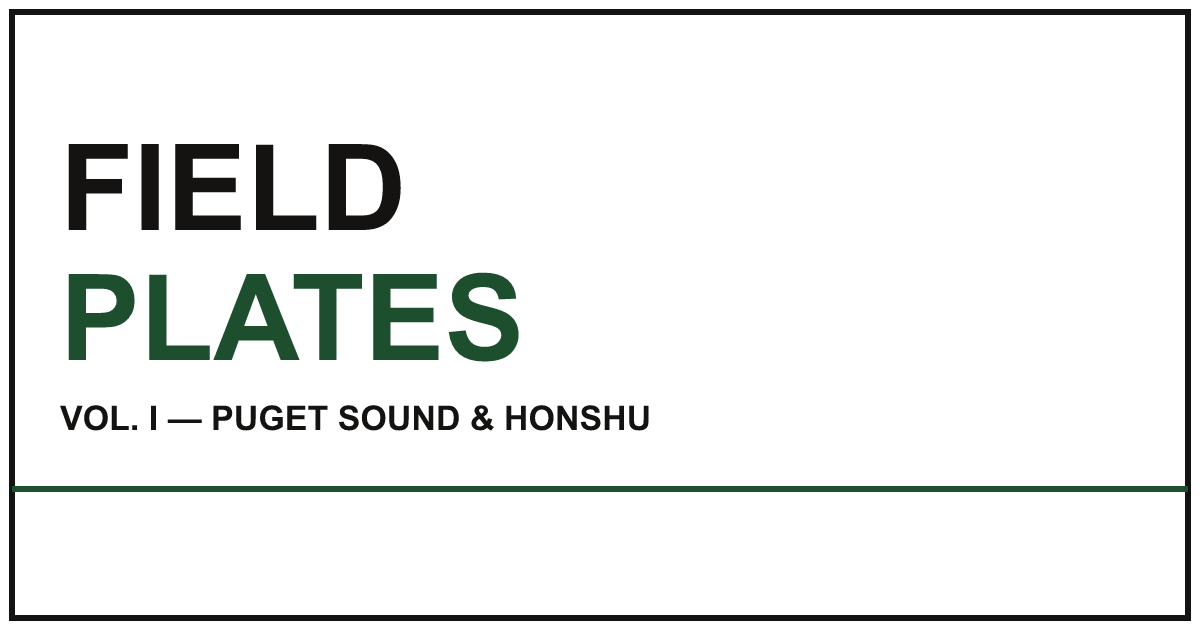
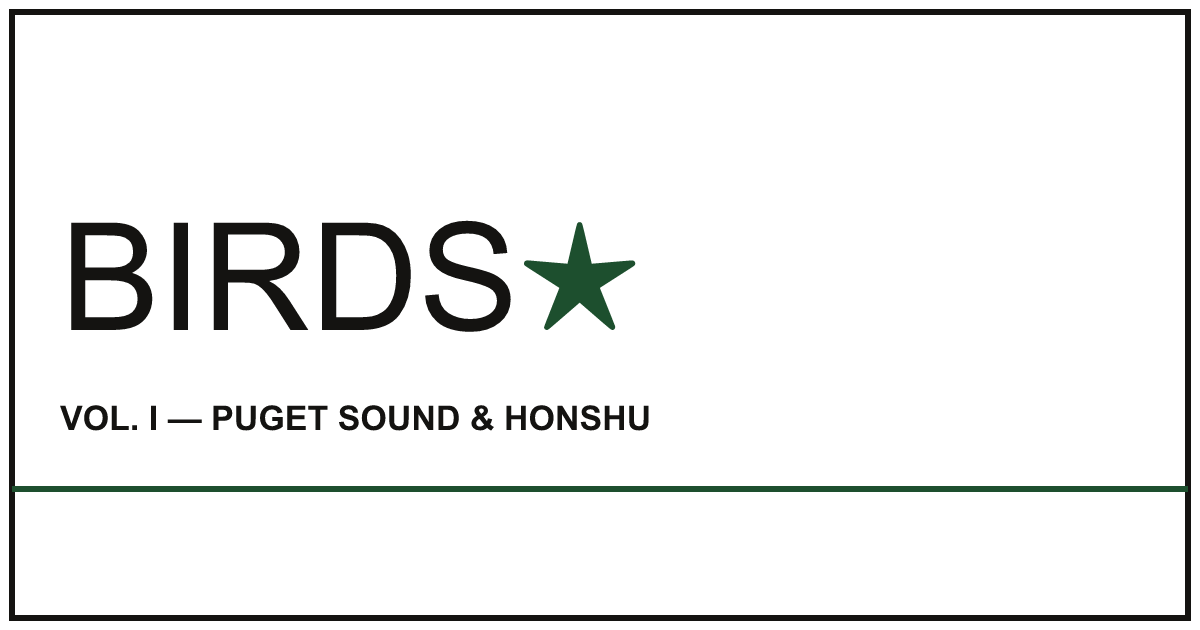
content: rename plates to birds, fix hero wordmark, drop bio marquee/status tags, accurate TGMG description

Changed region(s): [[0.0308, 0.2111, 0.5242, 0.573]]

diff --git a/index.html b/index.html
@@ -3,11 +3,11 @@
 <head>
 <meta charset="UTF-8">
 <meta name="viewport" content="width=device-width, initial-scale=1.0">
-<title>TUSENSII — projects, loudly</title>
-<meta name="description" content="Games, field photography, and personal infrastructure from Christopher — TUSENSII.">
+<title>TUSENSII</title>
+<meta name="description" content="Projects from Christopher — games, birds, and tools.">
 <meta property="og:type" content="website">
-<meta property="og:title" content="TUSENSII — projects, loudly">
-<meta property="og:description" content="Games, field photography, and personal infrastructure from Christopher — TUSENSII.">
+<meta property="og:title" content="TUSENSII">
+<meta property="og:description" content="Projects from Christopher — games, birds, and tools.">
 <meta property="og:image" content="https://tusensii.com/images/og-default.png">
 <meta property="og:image:width" content="1200">
 <meta property="og:image:height" content="630">
@@ -34,11 +34,11 @@
   </header>
 
   <section class="hero" aria-label="Tusensii — maker of games, tools, and photographs">
-    <h1>TUSEN<span class="row2">SII★</span></h1>
+    <h1>TUSENSII<svg class="star" viewBox="0 0 64 64" aria-hidden="true"><path d="M32 10l5.9 12.3 13.6 1.7-9.9 9.5 2.6 13.5L32 40.5 19.8 47l2.6-13.5-9.9-9.5 13.6-1.7z"/></svg></h1>
     <div class="hero-strip" aria-hidden="true">
       <div class="track">
-        <span>GAMES</span><span>—</span><span>FIELD PHOTOGRAPHY</span><span>—</span><span>PERSONAL INFRASTRUCTURE</span><span>—</span><span>MADE IN SEATTLE</span><span>—</span><span>RAISED IN MICHIGAN</span><span>—</span>
-        <span>GAMES</span><span>—</span><span>FIELD PHOTOGRAPHY</span><span>—</span><span>PERSONAL INFRASTRUCTURE</span><span>—</span><span>MADE IN SEATTLE</span><span>—</span><span>RAISED IN MICHIGAN</span><span>—</span>
+        <span>THE GREAT MOVIE GAME</span><span>—</span><span>BIRDS</span><span>—</span><span>PERSONAL INFRASTRUCTURE</span><span>—</span>
+        <span>THE GREAT MOVIE GAME</span><span>—</span><span>BIRDS</span><span>—</span><span>PERSONAL INFRASTRUCTURE</span><span>—</span>
       </div>
     </div>
   </section>
@@ -46,21 +46,21 @@
   <section class="board" id="work">
     <article class="panel">
       <div>
-        <div class="tag">Multiplayer trivia — live now</div>
+        <div class="tag">Multiplayer party game</div>
         <h2>The Great<br>Movie Game</h2>
-        <p>Born in a Michigan basement with a wall of DVDs and too many opinions. Rebuilt as a real-time game you can play with anyone, anywhere, about every movie ever made.</p>
+        <p>Everyone submits their favorite movies. Then you take turns eliminating them — every movie gets two lives, one revival, and a final call when only two remain.</p>
       </div>
       <a class="cta" href="https://thegreatmoviegame.biz">Play it now</a>
-      <div class="stamp">EST. W/ DVDS</div>
+      <div class="stamp">2–10 PLAYERS</div>
     </article>
 
     <article class="panel birds">
       <div>
-        <div class="tag">Field photography — ongoing</div>
-        <h2>Bird<br>Plates</h2>
+        <div class="tag">Field photography</div>
+        <h2>Birds</h2>
         <p>Waxwings at the reservoir, herons at Nisqually, one triumphant cormorant ID on the Japanese coast. Shot patiently, catalogued properly.</p>
       </div>
-      <a class="cta" href="/birds/">See the plates</a>
+      <a class="cta" href="/birds/">See the birds</a>
       <div class="stamp">VOL. I</div>
     </article>
   </section>

diff --git a/birds/index.html b/birds/index.html
@@ -3,11 +3,11 @@
 <head>
 <meta charset="UTF-8">
 <meta name="viewport" content="width=device-width, initial-scale=1.0">
-<title>TUSENSII — field plates</title>
-<meta name="description" content="Field plates — bird photography from Puget Sound and Honshu, photographed patiently and catalogued properly.">
+<title>TUSENSII — birds</title>
+<meta name="description" content="Bird photography from Puget Sound and Honshu, photographed patiently and catalogued properly.">
 <meta property="og:type" content="website">
-<meta property="og:title" content="TUSENSII — field plates">
-<meta property="og:description" content="Field plates — bird photography from Puget Sound and Honshu, photographed patiently and catalogued properly.">
+<meta property="og:title" content="TUSENSII — birds">
+<meta property="og:description" content="Bird photography from Puget Sound and Honshu, photographed patiently and catalogued properly.">
 <meta property="og:image" content="https://tusensii.com/images/og-birds.png">
 <meta property="og:image:width" content="1200">
 <meta property="og:image:height" content="630">
@@ -34,7 +34,7 @@
   </header>
 
   <section class="masthead">
-    <h1>Field <span>Plates</span></h1>
+    <h1>Birds</h1>
     <div class="deck">
       <span>Vol. I — Puget Sound &amp; Honshu</span>
       <span>Photographed patiently. Captioned like a museum, because the art history degree insists.</span>
@@ -48,7 +48,7 @@
       <div class="photo"><em>Cedar waxwing stripping a crab apple</em></div>
     </figure>
     <div class="caption">
-      <div class="plate-no">PLATE I</div>
+      <div class="plate-no">No. I</div>
       <h2>Cedar<br>Waxwing</h2>
       <div class="binomial">Bombycilla cedrorum</div>
       <dl class="specs">
@@ -65,7 +65,7 @@
       <div class="photo"><em>Japanese cormorant drying its wings</em></div>
     </figure>
     <div class="caption">
-      <div class="plate-no">PLATE II</div>
+      <div class="plate-no">No. II</div>
       <h2>Japanese<br>Cormorant</h2>
       <div class="binomial">Phalacrocorax capillatus</div>
       <dl class="specs">
@@ -78,7 +78,7 @@
   </article>
 
   <div class="band">
-    <span>MORE PLATES AS THE LIST GROWS</span>
+    <span>MORE BIRDS AS THE LIST GROWS</span>
     <span>NISQUALLY · DISCOVERY PARK · GRANITE MTN</span>
   </div>
 
@@ -87,7 +87,7 @@
       <div class="photo"><em>Great blue heron standing still in shallow water</em></div>
     </figure>
     <div class="caption">
-      <div class="plate-no">PLATE III</div>
+      <div class="plate-no">No. III</div>
       <h2>Great<br>Blue Heron</h2>
       <div class="binomial">Ardea herodias</div>
       <dl class="specs">

diff --git a/css/site.css b/css/site.css
@@ -44,11 +44,13 @@ footer a:hover{color:var(--field)}
 .hero{border-bottom:3px solid var(--rule);overflow:hidden}
 .hero h1{
   font-family:'Anton',sans-serif;
-  font-size:20.5vw;line-height:.86;letter-spacing:-.01em;
+  font-size:clamp(2.75rem,10.5vw,8.5rem);line-height:1;letter-spacing:-.01em;
   padding:5vh 2vw 1.4vh;
   text-transform:uppercase;
+  display:flex;align-items:center;gap:.1em;
+  white-space:nowrap;
 }
-.hero h1 .row2{display:block;color:var(--field);-webkit-text-stroke:0;padding-left:12vw}
+.hero h1 .star{width:1.05em;height:1.05em;flex-shrink:0;fill:var(--field);transform:translateY(.02em)}
 .hero-strip{
   border-top:3px solid var(--rule);
   display:flex;gap:3rem;white-space:nowrap;overflow:hidden;
@@ -103,7 +105,6 @@ footer a:hover{color:var(--field)}
   .board{grid-template-columns:1fr}
   .panel{border-right:none;border-bottom:3px solid var(--rule)}
   .panel:last-child{border-bottom:none}
-  .hero h1{font-size:23vw}
 }
 @media (prefers-reduced-motion:reduce){
   .hero-strip .track{animation:none}

diff --git a/404.html b/404.html
@@ -30,7 +30,7 @@
     </div>
   </section>
   <div style="padding:3rem 4vw;max-width:60ch">
-    <p>No plate at this coordinate. <a href="/" style="text-decoration:underline">Back to work.</a></p>
+    <p>Nothing at this coordinate. <a href="/" style="text-decoration:underline">Back to work.</a></p>
   </div>
   <footer>
     <span>© 2026 Christopher — set in Anton &amp; Archivo</span>